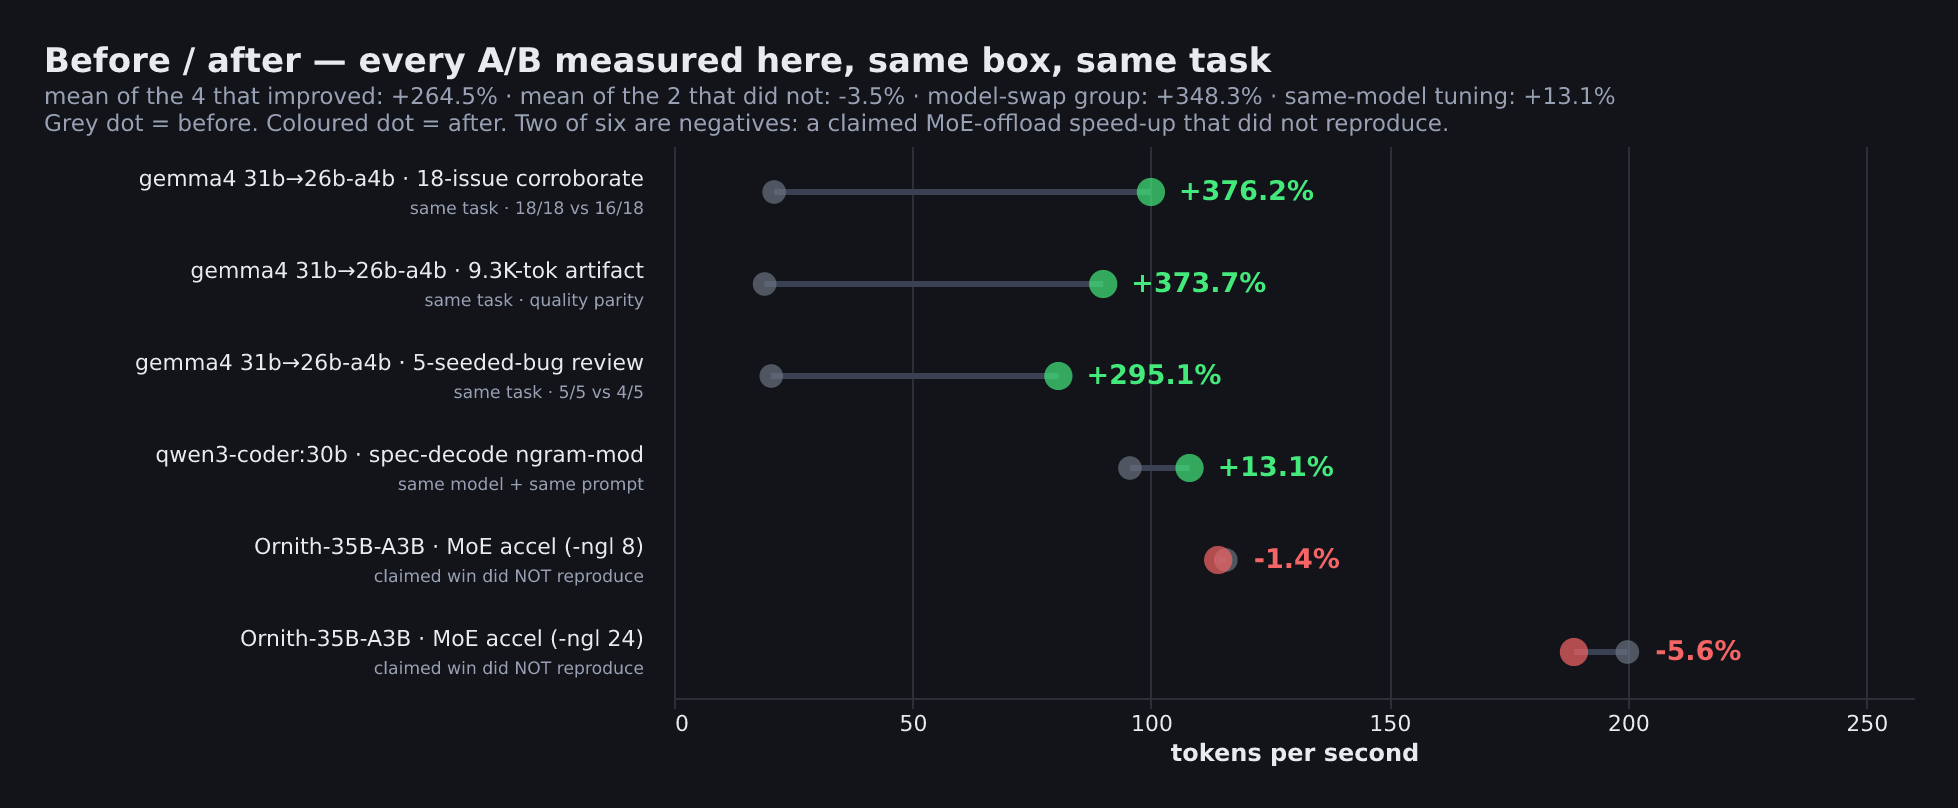
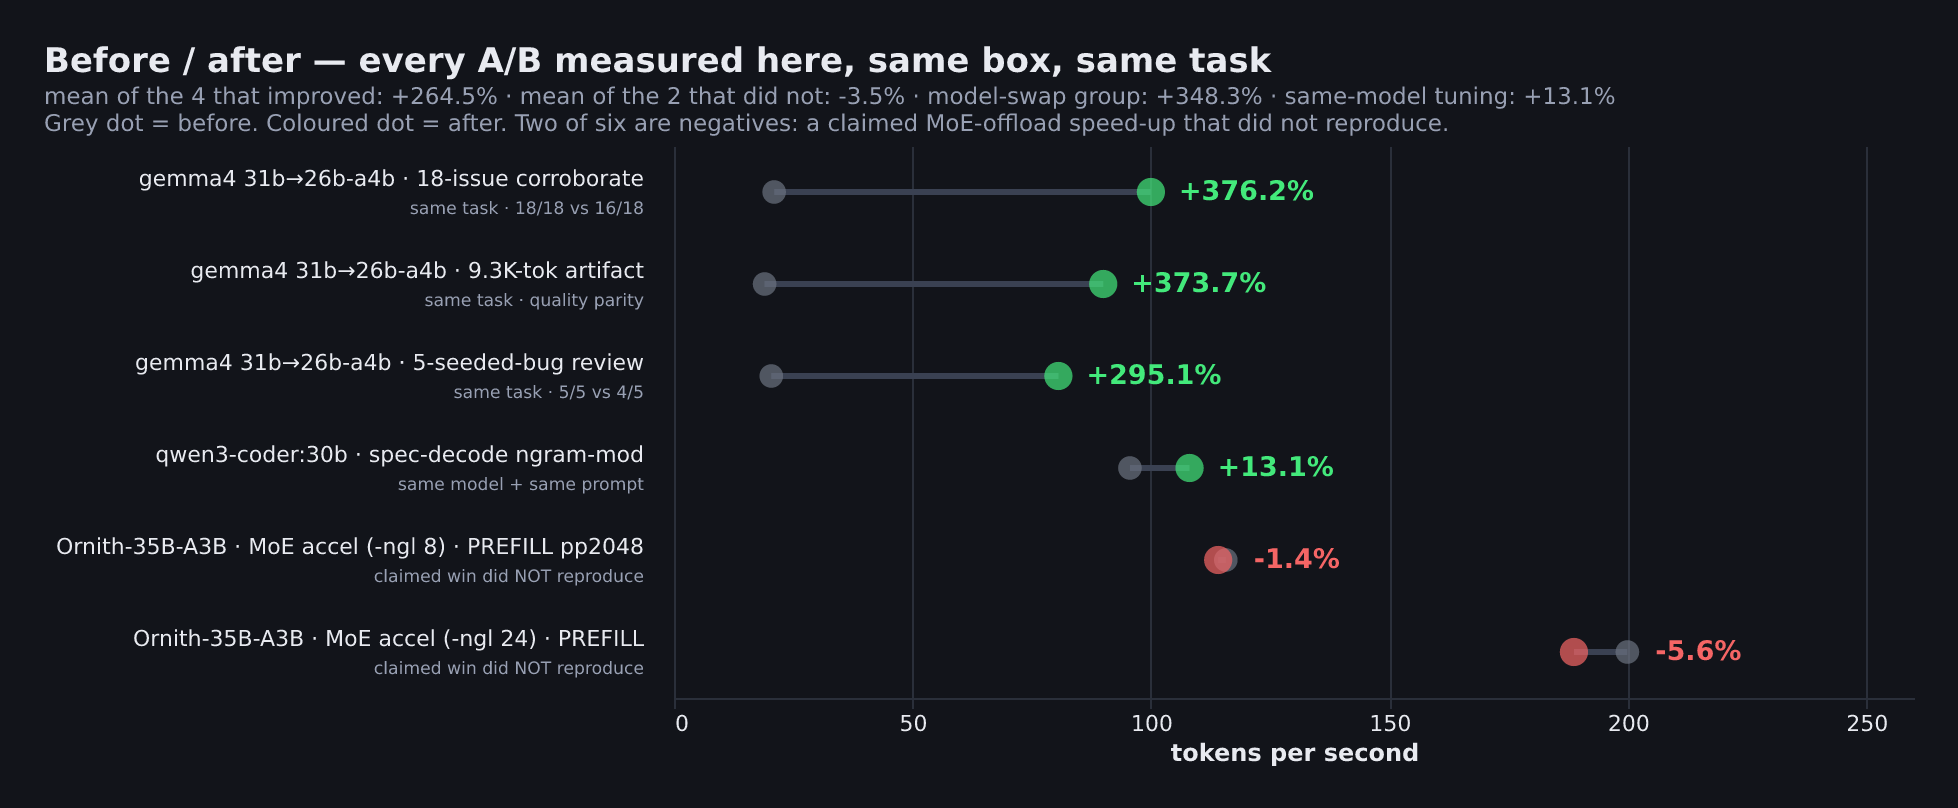
bench: disclose prefill on the shared axis in 02_before_after, and give the gate the list it never checked
The same four prefill rows also feed the before/after chart, whose axis is a generic
'tokens per second' carrying decode bars beside them. Each arm of those two A/B rows
is prefill-vs-prefill so the comparison itself is sound, but sharing an axis with
decode invites the wrong reading — the bars now say PREFILL.

The before/after list was verified by nothing at all: the consistency gate covered the
peak and two-box lists only. It now requires every before/after value to exist in the
CSV and requires a prefill-sourced bar to name its metric. Teeth: stripping the
disclosure exits 1 with that exact message.

Claude-direct: data-integrity correction on published numbers is orchestrator-class

Changed region(s): [[0.0312, 0.6498, 0.3427, 0.7116], [0.0623, 0.7735, 0.3427, 0.8045]]

diff --git a/bench/make_charts.py b/bench/make_charts.py
@@ -88,8 +88,8 @@ ab = [
     ("gemma4 31b→26b-a4b · 9.3K-tok artifact",     19.0,  90.0, "swap", "same task · quality parity"),
     ("gemma4 31b→26b-a4b · 5-seeded-bug review",   20.4,  80.6, "swap", "same task · 5/5 vs 4/5"),
     ("qwen3-coder:30b · spec-decode ngram-mod",    95.6, 108.1, "tune", "same model + same prompt"),
-    ("Ornith-35B-A3B · MoE accel (-ngl 8)",       115.7, 114.1, "tune", "claimed win did NOT reproduce"),
-    ("Ornith-35B-A3B · MoE accel (-ngl 24)",      199.9, 188.7, "tune", "claimed win did NOT reproduce"),
+    ("Ornith-35B-A3B · MoE accel (-ngl 8) · PREFILL pp2048",       115.7, 114.1, "tune", "claimed win did NOT reproduce"),
+    ("Ornith-35B-A3B · MoE accel (-ngl 24) · PREFILL",      199.9, 188.7, "tune", "claimed win did NOT reproduce"),
 ]
 p2 = []
 for lab, b, a, grp, note in ab:
@@ -311,6 +311,20 @@ def _verify_against_csv():
             bad.append(f"{name}: not present in CSV"); continue
         if abs(best[key] - v) > 0.051:
             bad.append(f"{name}: chart {v} vs CSV {best[key]}")
+    # The before/after list was previously verified by NOTHING. Its axis is a generic
+    # "tokens per second" that legitimately carries decode rows AND prefill A/B rows, so each
+    # value must exist in the CSV and a prefill-sourced bar must say so in its own label.
+    allvals = {}
+    for r in csv.DictReader(open(csv_path)):
+        allvals.setdefault(float(r["tok_per_sec"]), set()).add(r["metric"])
+    for lab, b, a, _grp, _note in ab:
+        for v in (b, a):
+            metrics = allvals.get(v)
+            if metrics is None:
+                bad.append(f"before/after '{lab}': {v} is not in the CSV record")
+            elif metrics == {"prefill"} and "prefill" not in lab.lower():
+                bad.append(f"before/after '{lab}': {v} is a PREFILL row in the CSV but the label "
+                           f"does not say so — it shares an axis with decode bars")
     for row in p4 + p5:
         if (row["model"], row["tps"]) not in values:
             bad.append(f"{row['model']}: chart {row['tps']} not present in CSV")
